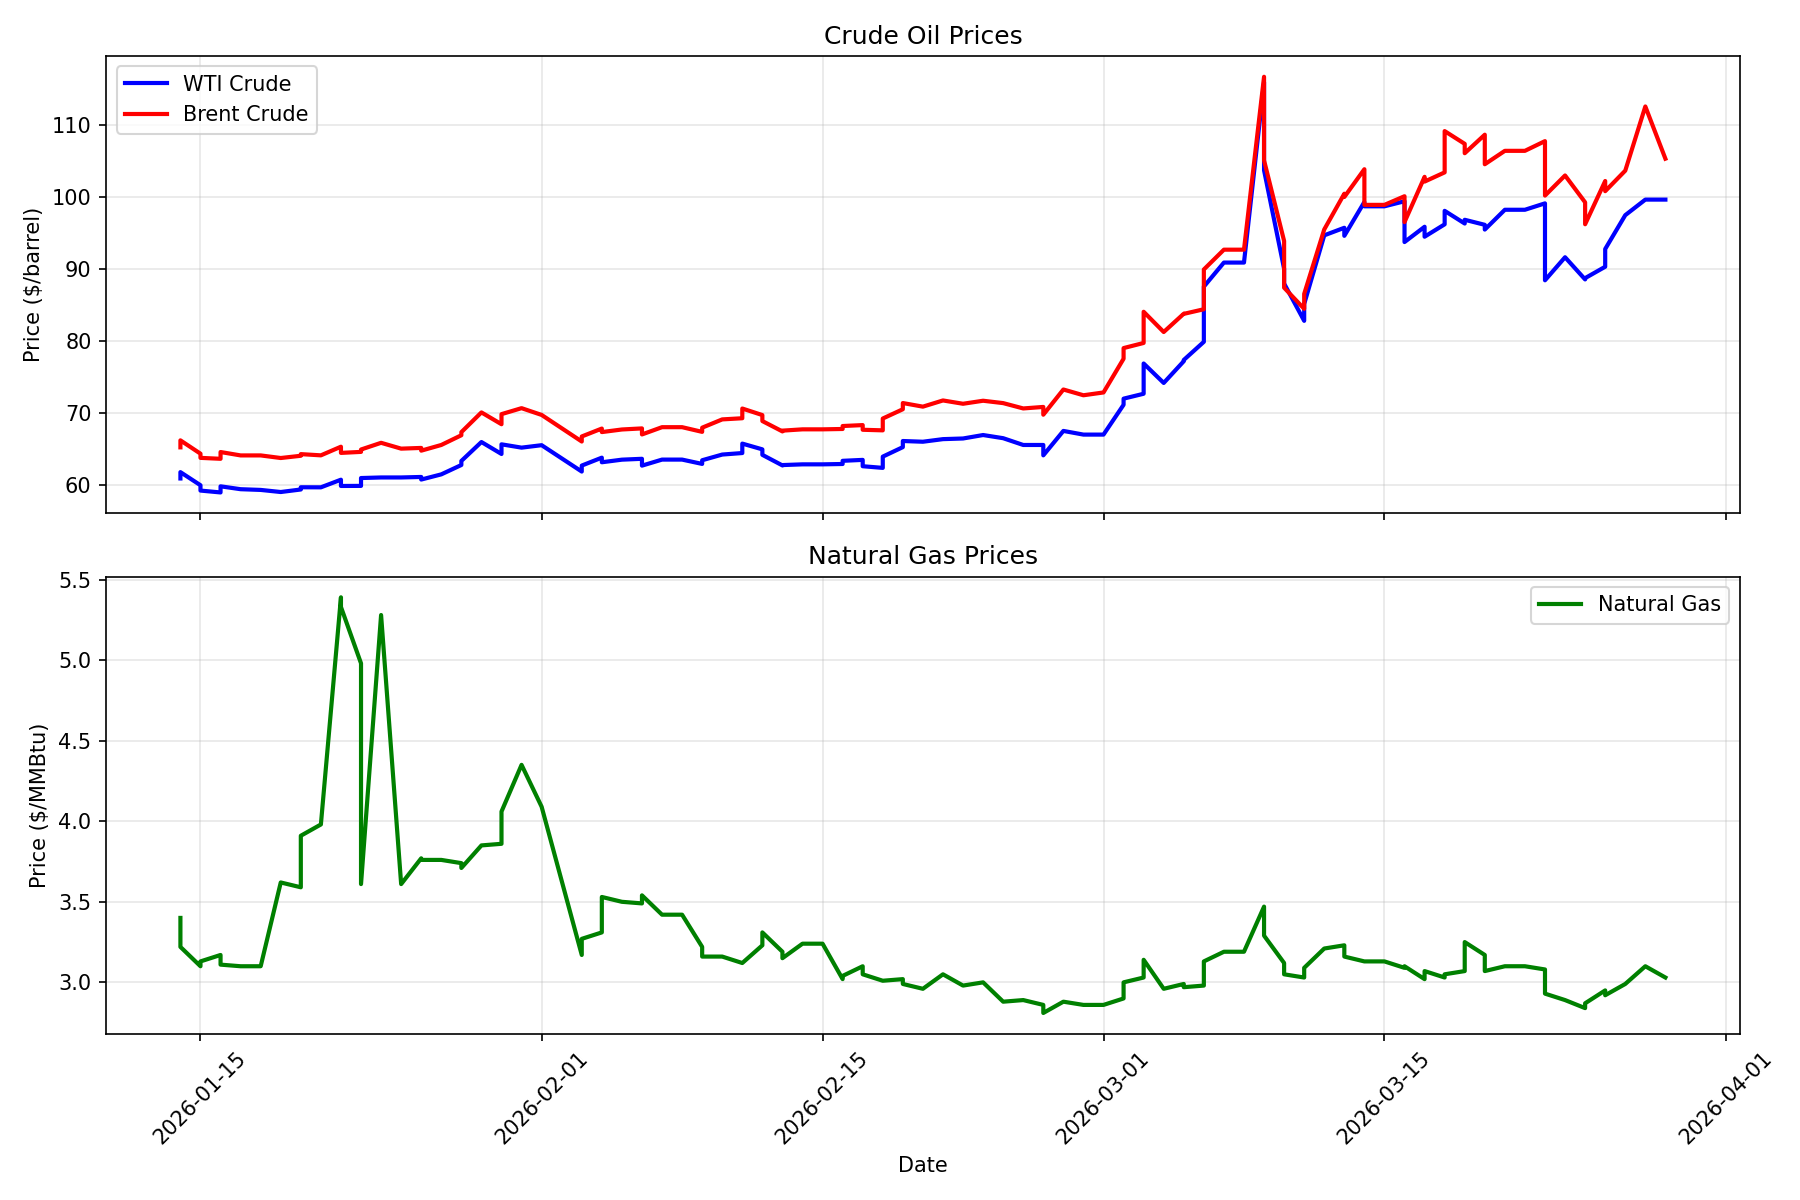
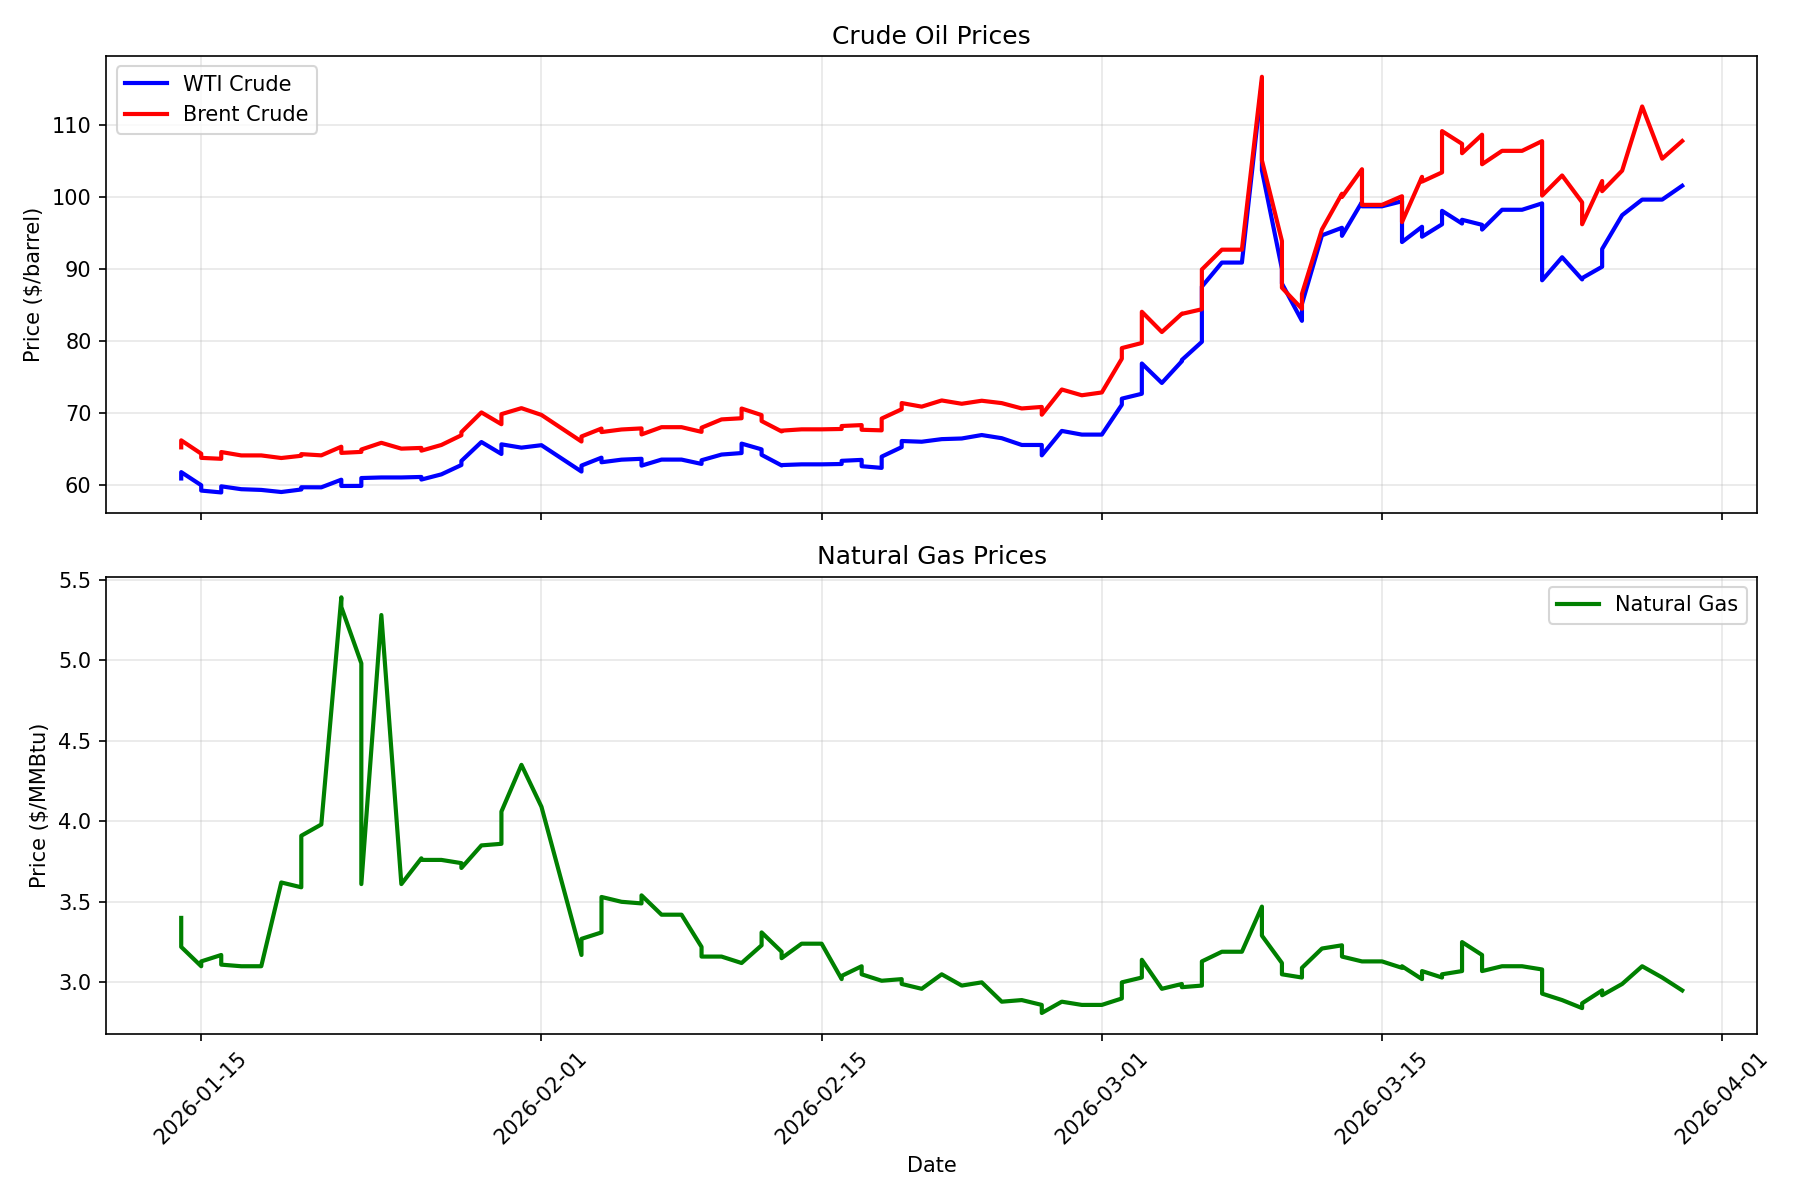
Daily price update: 2026-03-30

diff --git a/README.md b/README.md
@@ -2,16 +2,16 @@
 
 Automated daily tracking of chemical commodity prices and chemical company stocks.
 
-## Latest Prices (Updated: 2026-03-29)
+## Latest Prices (Updated: 2026-03-30)
 
 ### Energy Commodities
 
 | Commodity | Price | Change (24h) | Unit |
 |-----------|-------|--------------|------|
-| WTI Crude Oil | $99.64 | +0.00 (+0.00%) | $/barrel |
-| Brent Crude Oil | $105.32 | +0.00 (+0.00%) | $/barrel |
-| Natural Gas | $3.03 | +0.00 (+0.00%) | $/MMBtu |
-| Heating Oil | $4.24 | +0.00 (+0.00%) | $/gallon |
+| WTI Crude Oil | $101.56 | +0.00 (+0.00%) | $/barrel |
+| Brent Crude Oil | $107.77 | +0.00 (+0.00%) | $/barrel |
+| Natural Gas | $2.95 | +0.00 (+0.00%) | $/MMBtu |
+| Heating Oil | $4.34 | +0.00 (+0.00%) | $/gallon |
 
 ### Chemical Company Stocks
 

diff --git a/logs/update_log.md b/logs/update_log.md
@@ -135,3 +135,4 @@ Daily updates to the chemical engineering data repository.
 - **2026-03-27 14:19:26**: Updated 4 energy prices, 8 stocks, 0 FRED series
 - **2026-03-28 14:09:11**: Updated 4 energy prices, 8 stocks, 0 FRED series
 - **2026-03-29 14:09:38**: Updated 4 energy prices, 8 stocks, 0 FRED series
+- **2026-03-30 00:00:05**: Updated 4 energy prices, 8 stocks, 0 FRED series
